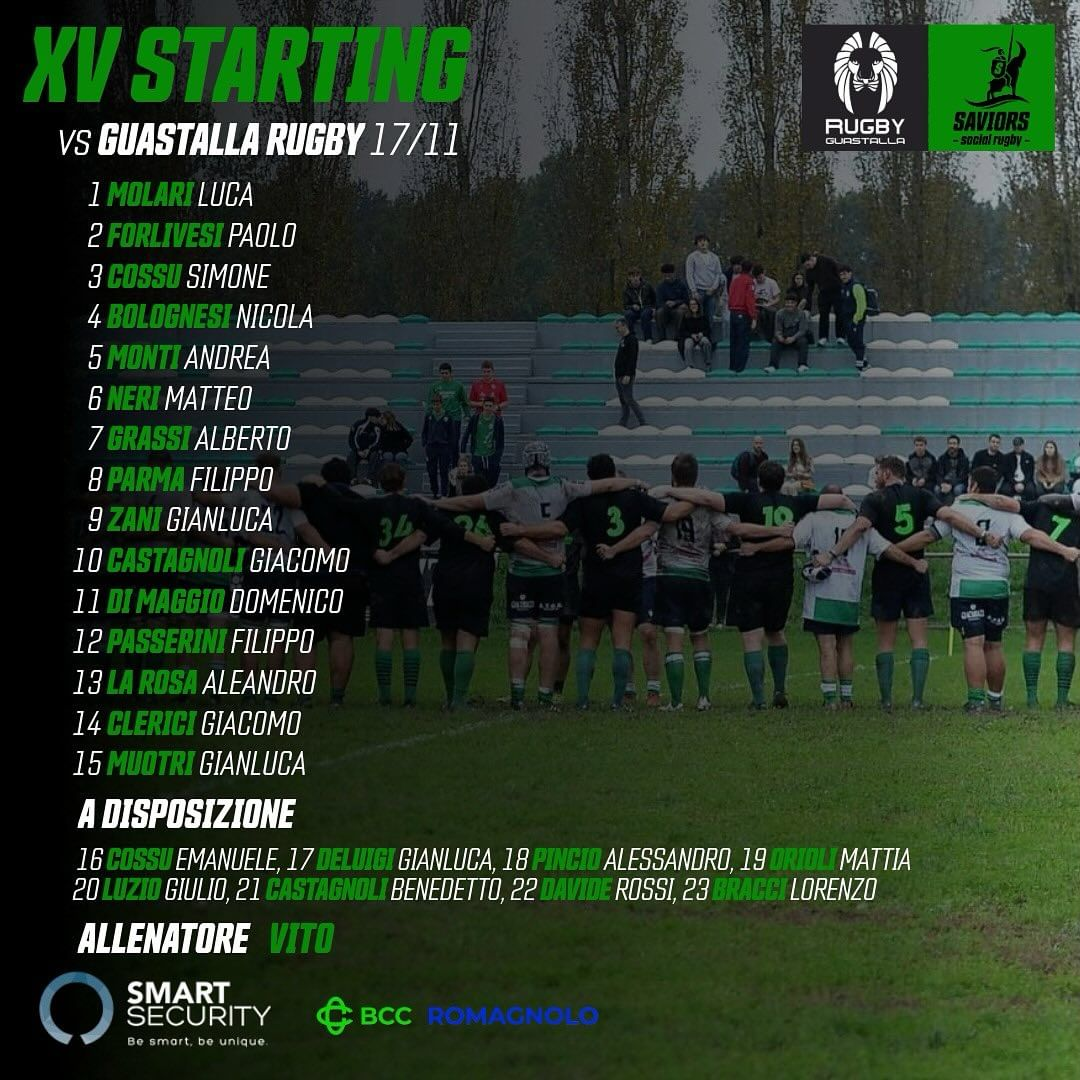
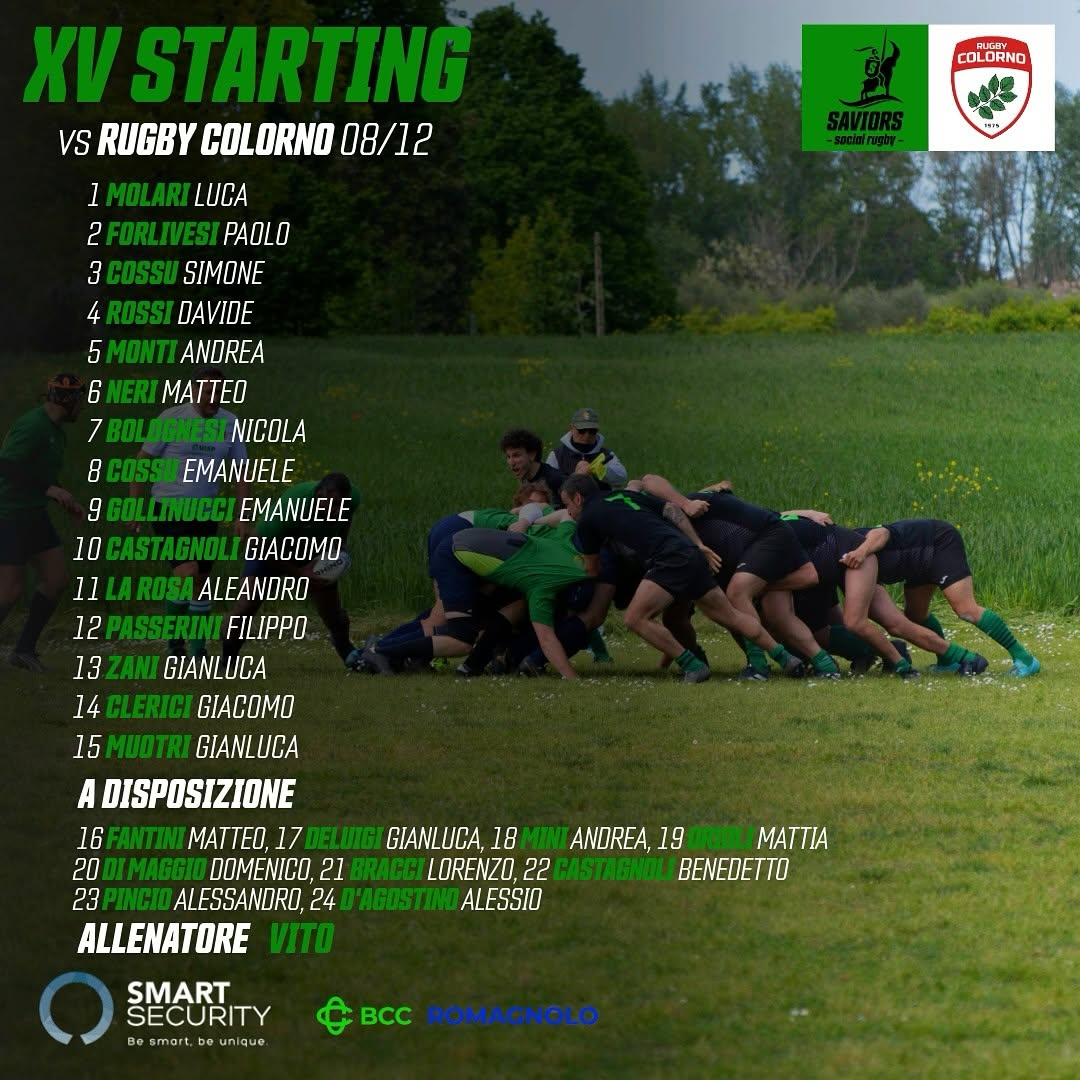
enh: last and next match

diff --git a/content/posts/next-match/index.md b/content/posts/next-match/index.md
@@ -1,13 +1,13 @@
 ---
-title: "Prossimo Match:<br/>Saviors Social Rugby vs Rugby Colorno 1975"
-date: "2023-11-19"
+title: "Prossimo Match:<br/>Saviors Social Rugby vs Bologna Rugby Club"
+date: "2023-12-10"
 sharingLinks:
   - facebook
   - whatsapp
   - telegram
 tags:
   - Saviors
-  - Colorno
+  - Bologna
 showDate: false
 showHeadingAnchors: false
 showHero: false
@@ -15,10 +15,10 @@ weight: 1
 hide: true
 ---
 
-| Giornata  | Data       | Orario | Casa                         | Ospiti                  | Indirizzo                               |
-| --------- | ---------- | ------ | ---------------------------- | ----------------------- | --------------------------------------- |
-| 4ᵃ Andata | 08/12/2024 | 14:30  | **Saviors Social Rugby ASD** | Rugby Colorno 1975 nr.3 | Via Roversano 2815, 47522 - Cesena (FC) |
+| Giornata  | Data       | Orario | Casa                         | Ospiti             | Indirizzo                               |
+| --------- | ---------- | ------ | ---------------------------- | ------------------ | --------------------------------------- |
+| 5ᵃ Andata | 15/12/2024 | 14:30  | **Saviors Social Rugby ASD** | Bologna Rugby Club | Via Roversano 2815, 47522 - Cesena (FC) |
 
-<!-- ![](./featured.jpg) -->
+![](./featured.jpg)
 
 <!-- ![](./team.jpg) -->

diff --git a/content/posts/last-match/index.md b/content/posts/last-match/index.md
@@ -1,13 +1,13 @@
 ---
-title: "Ultimo Match:<br/>Guastalla 2008 vs Saviors Social Rugby (7 - 29)"
-date: "2024-11-17"
+title: "Ultimo Match:<br/>Saviors Social Rugby vs Rugby Colorno 1975 (22 - 18)"
+date: "2024-12-08"
 sharingLinks:
   - facebook
   - whatsapp
   - telegram
 tags:
   - Saviors
-  - Guastalla
+  - Colorno
 showDate: false
 showHeadingAnchors: false
 showHero: false
@@ -15,9 +15,9 @@ weight: 2
 hide: true
 ---
 
-| Giornata  | Data       | Orario | Casa                 | Ospiti                       | Indirizzo             |
-| --------- | ---------- | ------ | -------------------- | ---------------------------- | --------------------- |
-| 3ᵃ Andata | 17/11/2024 | 14:30  | Rugby Guastalla 2008 | **Saviors Social Rugby ASD** | Ferrarini - Guastalla |
+| Giornata  | Data       | Orario | Casa                         | Ospiti                  | Indirizzo                               |
+| --------- | ---------- | ------ | ---------------------------- | ----------------------- | --------------------------------------- |
+| 4ᵃ Andata | 08/12/2024 | 14:30  | **Saviors Social Rugby ASD** | Rugby Colorno 1975 nr.3 | Via Roversano 2815, 47522 - Cesena (FC) |
 
 ![](./featured.jpg)
 
